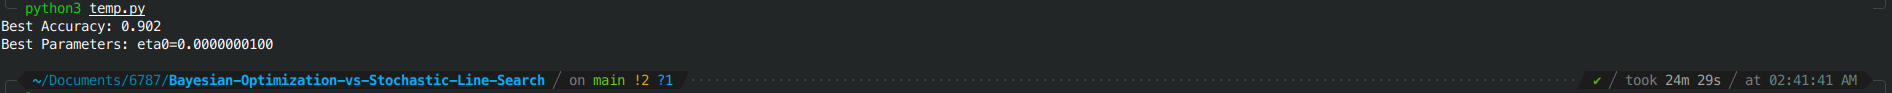
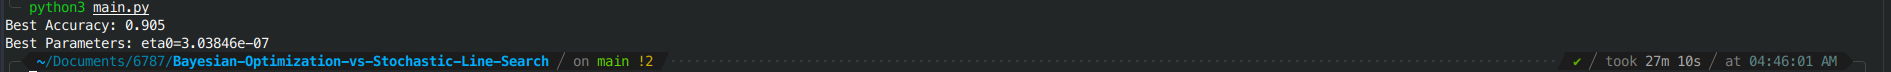
fixed picture

Changed region(s): [[0.0, 0.75, 0.9984, 0.9444], [0.0, 0.0278, 0.156, 0.6667], [0.0, 0.9722, 0.0312, 1.0]]

diff --git a/main.py b/main.py
@@ -9,8 +9,8 @@ if __name__ == "__main__":
     X, y = mnist['data'], mnist['target']
     X_train, X_test, y_train, y_test = X[:60000], X[60000:], y[:60000], y[60000:]
 
-    model = SGDClassifier(loss='log', random_state=42, learning_rate='constant', eta0=1)
-    search_space = [Real(0.00000001, 1, name='eta0')]
+    model = SGDClassifier(loss='log', random_state=42, learning_rate='constant', eta0=0.1)
+    search_space = [Real(1e-7, 0.1, name='eta0')]
 
     bo = BayesianOptimization(model, search_space, X_train, y_train)
     bo.run()

diff --git a/bo.py b/bo.py
@@ -34,7 +34,7 @@ class BayesianOptimization():
             result = gp_minimize(self.eval(), self.search_space, acq_func='EI')
             # to be changed, since this print only works for the example test
             print('Best Accuracy: %.3f' % (1.0 - result.fun))
-            print('Best Parameters: eta0=%.10f' % (result.x[0]))
+            print('Best Parameters: eta0=%.5e' % (result.x[0]))
         
 
 if __name__ == "__main__":
